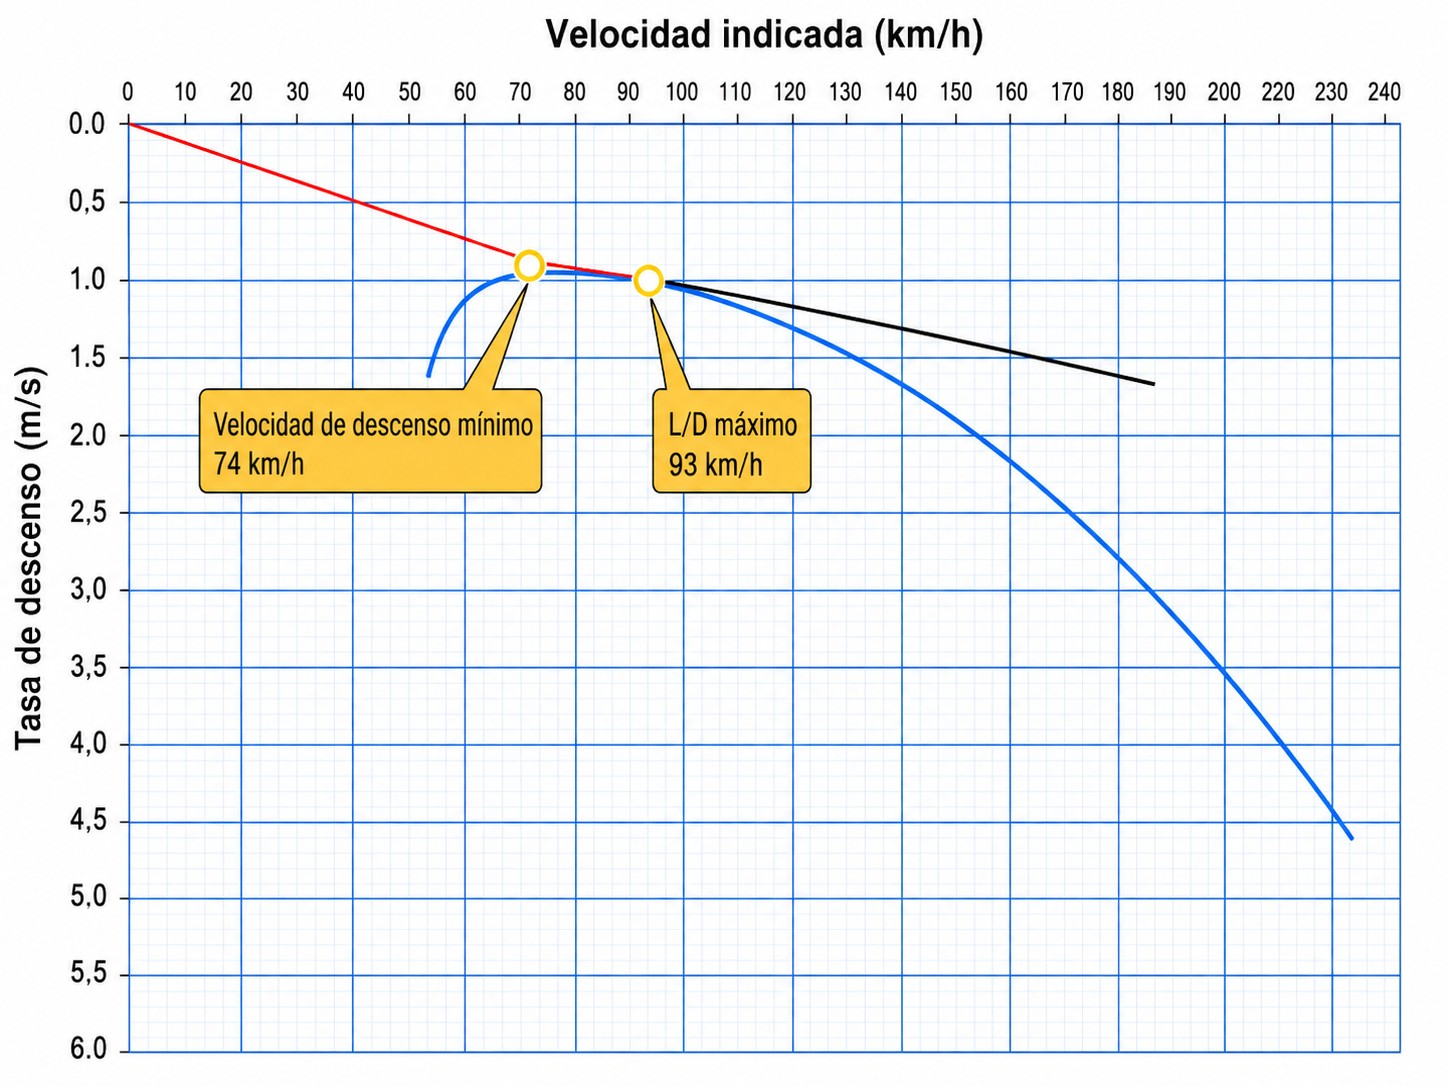
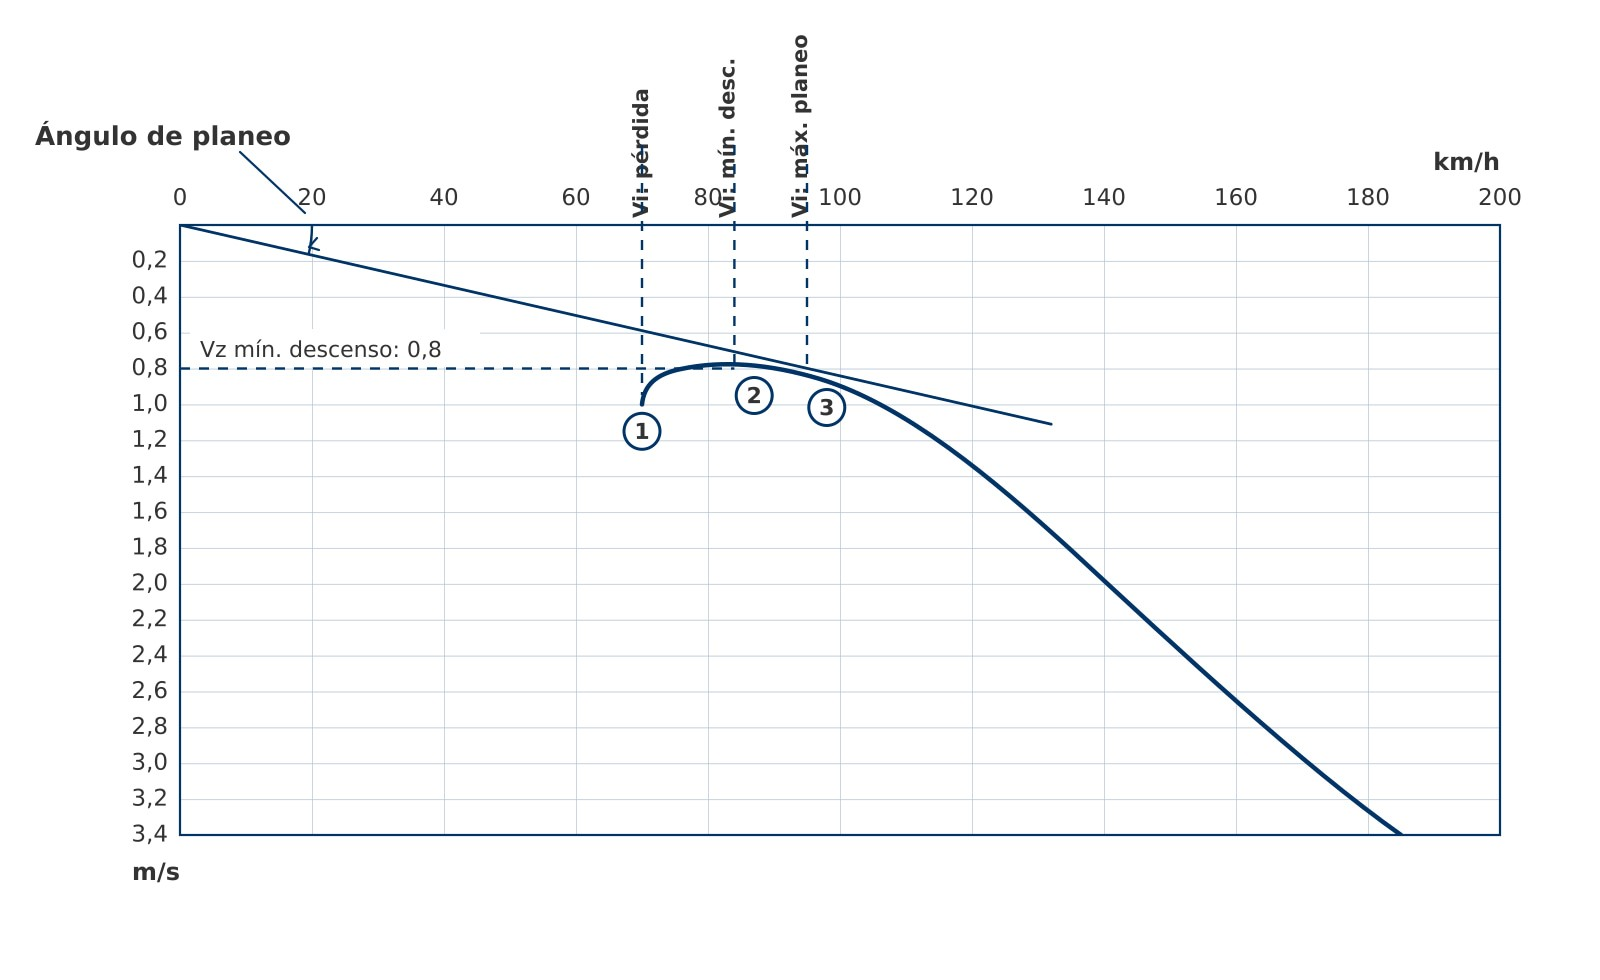
feat(05-principios-vuelo): rehacer la curva polar de cap02
La figura anterior señalaba dos puntos con bocadillos y les ponía cifra —74 y
93 km/h— de un planeador sin identificar. La nueva marca tres puntos numerados
(1 pérdida, 2 mínimo descenso, 3 máximo planeo) y dibuja la tangente desde el
origen con el ángulo de planeo, que es de donde sale el punto 3. Sin cifras
concretas, porque dependen del planeador y del texto ya se deducen.

El pie nombra ahora los tres puntos y la figura lleva fig-alt.

Changed region(s): [[0.0, 0.0, 0.9634, 0.9184], [0.0311, 0.949, 0.4972, 0.9796], [0.5283, 0.949, 0.9634, 0.9796]]

diff --git a/05-principios-vuelo/CHANGELOG-05.md b/05-principios-vuelo/CHANGELOG-05.md
@@ -16,6 +16,12 @@ rompe la compilación.
 
 ## [En curso]
 
+**Qué releer:** **cap02, la curva polar.** La figura se rehace y su pie pasa a nombrar los tres puntos marcados. El texto del apartado no cambia, pero la figura ya no da las dos velocidades con cifra: conviene comprobar que se lee bien junto al cuerpo, que sí las explica.
+
+### Cambiado
+
+* **cap02, curva polar** — figura nueva. Marca **tres** puntos numerados (1 pérdida, 2 mínimo descenso, 3 máximo planeo) donde la anterior sólo señalaba dos con bocadillos, e incorpora la tangente desde el origen y el ángulo de planeo, que es de donde sale el punto 3. A cambio desaparecen las cifras concretas de la versión anterior (74 y 93 km/h), que eran de un planeador sin identificar. El pie recoge ahora los tres puntos y la figura lleva `fig-alt` para lectores de pantalla.
+
 ### Maqueta y producción
 
 * **cap05, cap07, glosario y preliminares** — las velocidades V se escriben ya todas con subíndice (`V~NE~`, `V~A~`, `V~RA~`), que es como las componen CS-22 y 14 CFR §1.2. El libro mezclaba las dos formas: 27 estaban planas, incluidas las tres entradas del glosario y un encabezado de cap05. No cambia ningún dato ni ninguna cifra.
